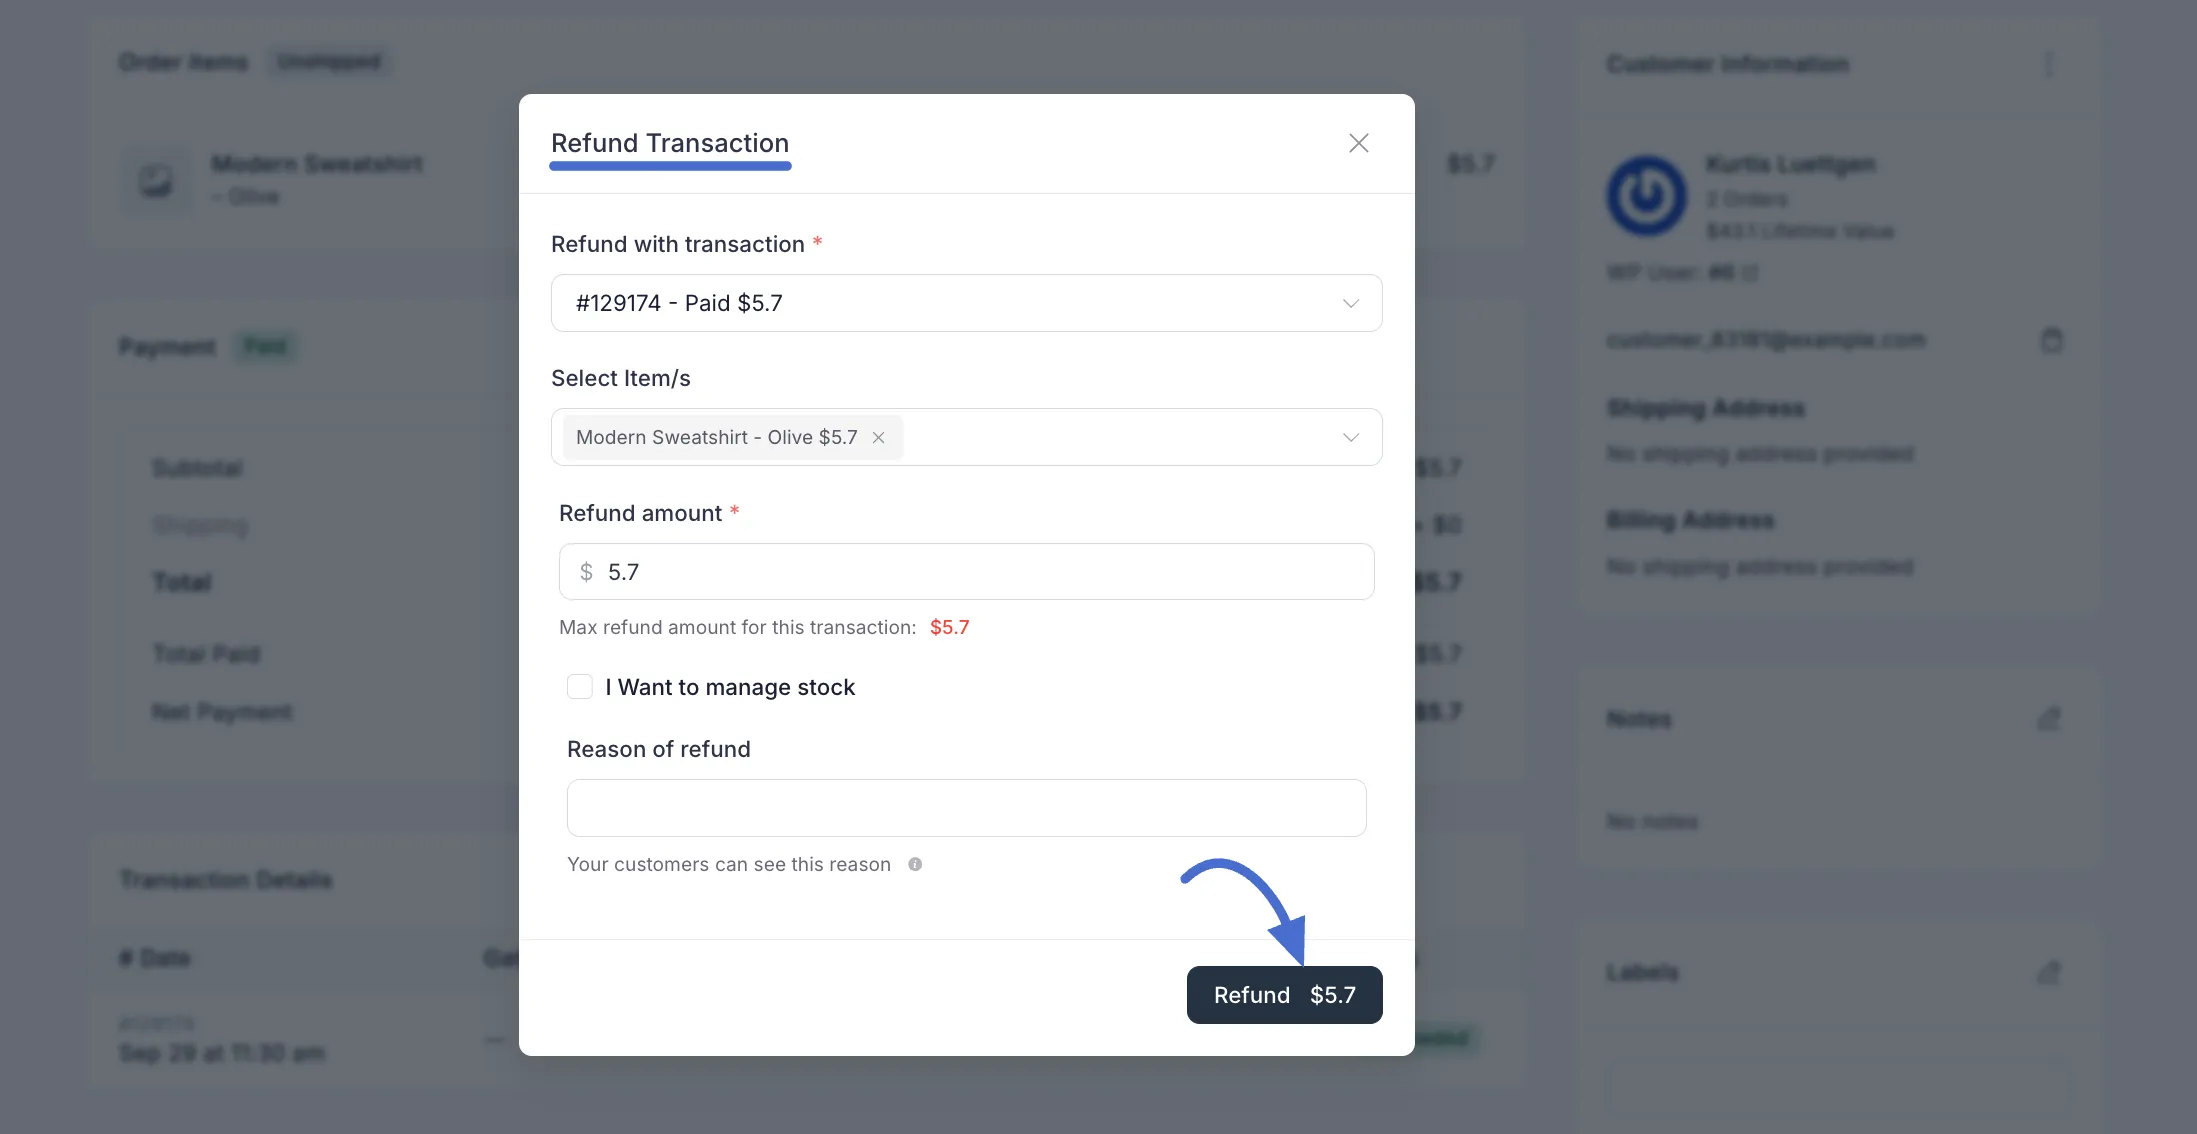
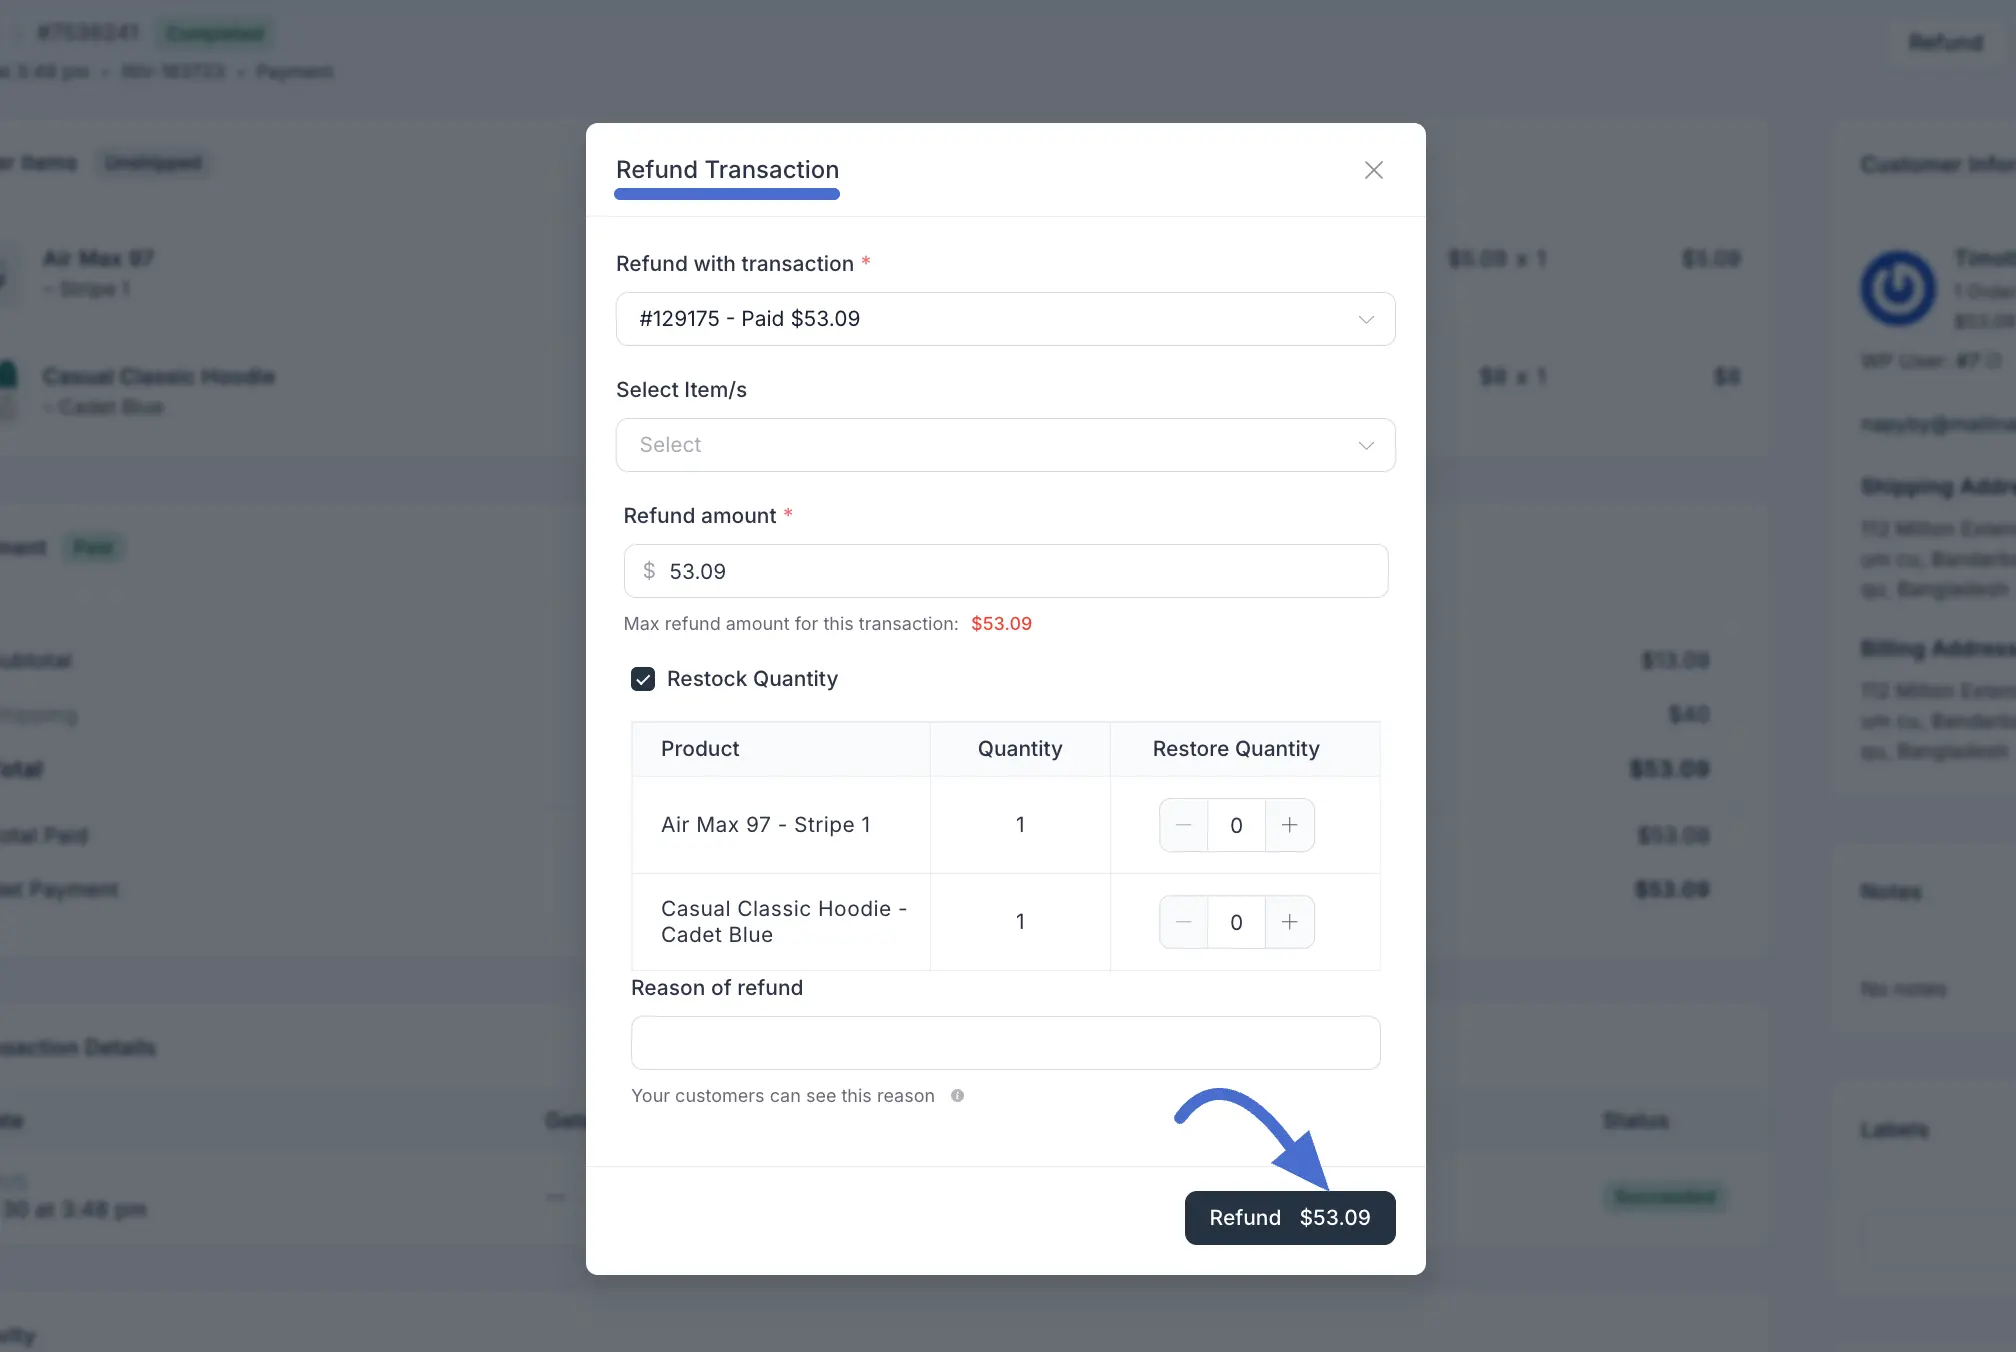
update Processing Refunds doc
update Processing Refunds doc and image add

diff --git a/guide/store-management/orders-management/processing-refunds.md b/guide/store-management/orders-management/processing-refunds.md
@@ -12,11 +12,11 @@ FluentCart provides a straightforward way to process refunds for your orders, wh
 3.  A **"Refund Payment"** modal window will appear.
 
 4.  Configure the refund details:
-    * **Refund with transaction\:** Use the dropdown to select the specific payment transaction you wish to refund. This is crucial if an order had multiple payments or partial payments.
+    * **Refund with transaction:** Use the dropdown to select the specific payment transaction you wish to refund. This is crucial if an order had multiple payments or partial payments.
     * **Select Item/s:** This is a crucial step for keeping your records straight. Click this dropdown to choose the specific products the customer is returning. This helps keep your sales reports and inventory accurate, especially for partial returns. 
-    * **Refund amount\:** Enter the amount you wish to refunds.
+    * **Refund amount:** Enter the amount you wish to refunds.
         * FluentCart displays the **"Max refund amount for this transaction"**, ensuring you don't refund more than was paid in that specific transaction. This allows for **partial refunds**. You can manually adjust the amount if needed.
-    * **I want to Mange Stock:** Check this option to automatically update the stock quantity for this product after each sale or return. 
+    * **Restock Quantity:** If a customer purchased a simple or variable product (such as a shirt), you’ll see a Restock Quantity section. This option allows you to restore product stock directly while processing a refund. You can specify how many units of each product should be added back to your store’s inventory from the same screen.
     * **Reason of refund:** Add a short Description to note the reason for the refund (this helps you remember why this refund).
     * **Subscription:** If the order includes a subscription, you will see a checkbox for **"Cancel Subscription (if any)"**.
         * Checking this box will not only process the refund but also automatically cancel the associated subscription.
